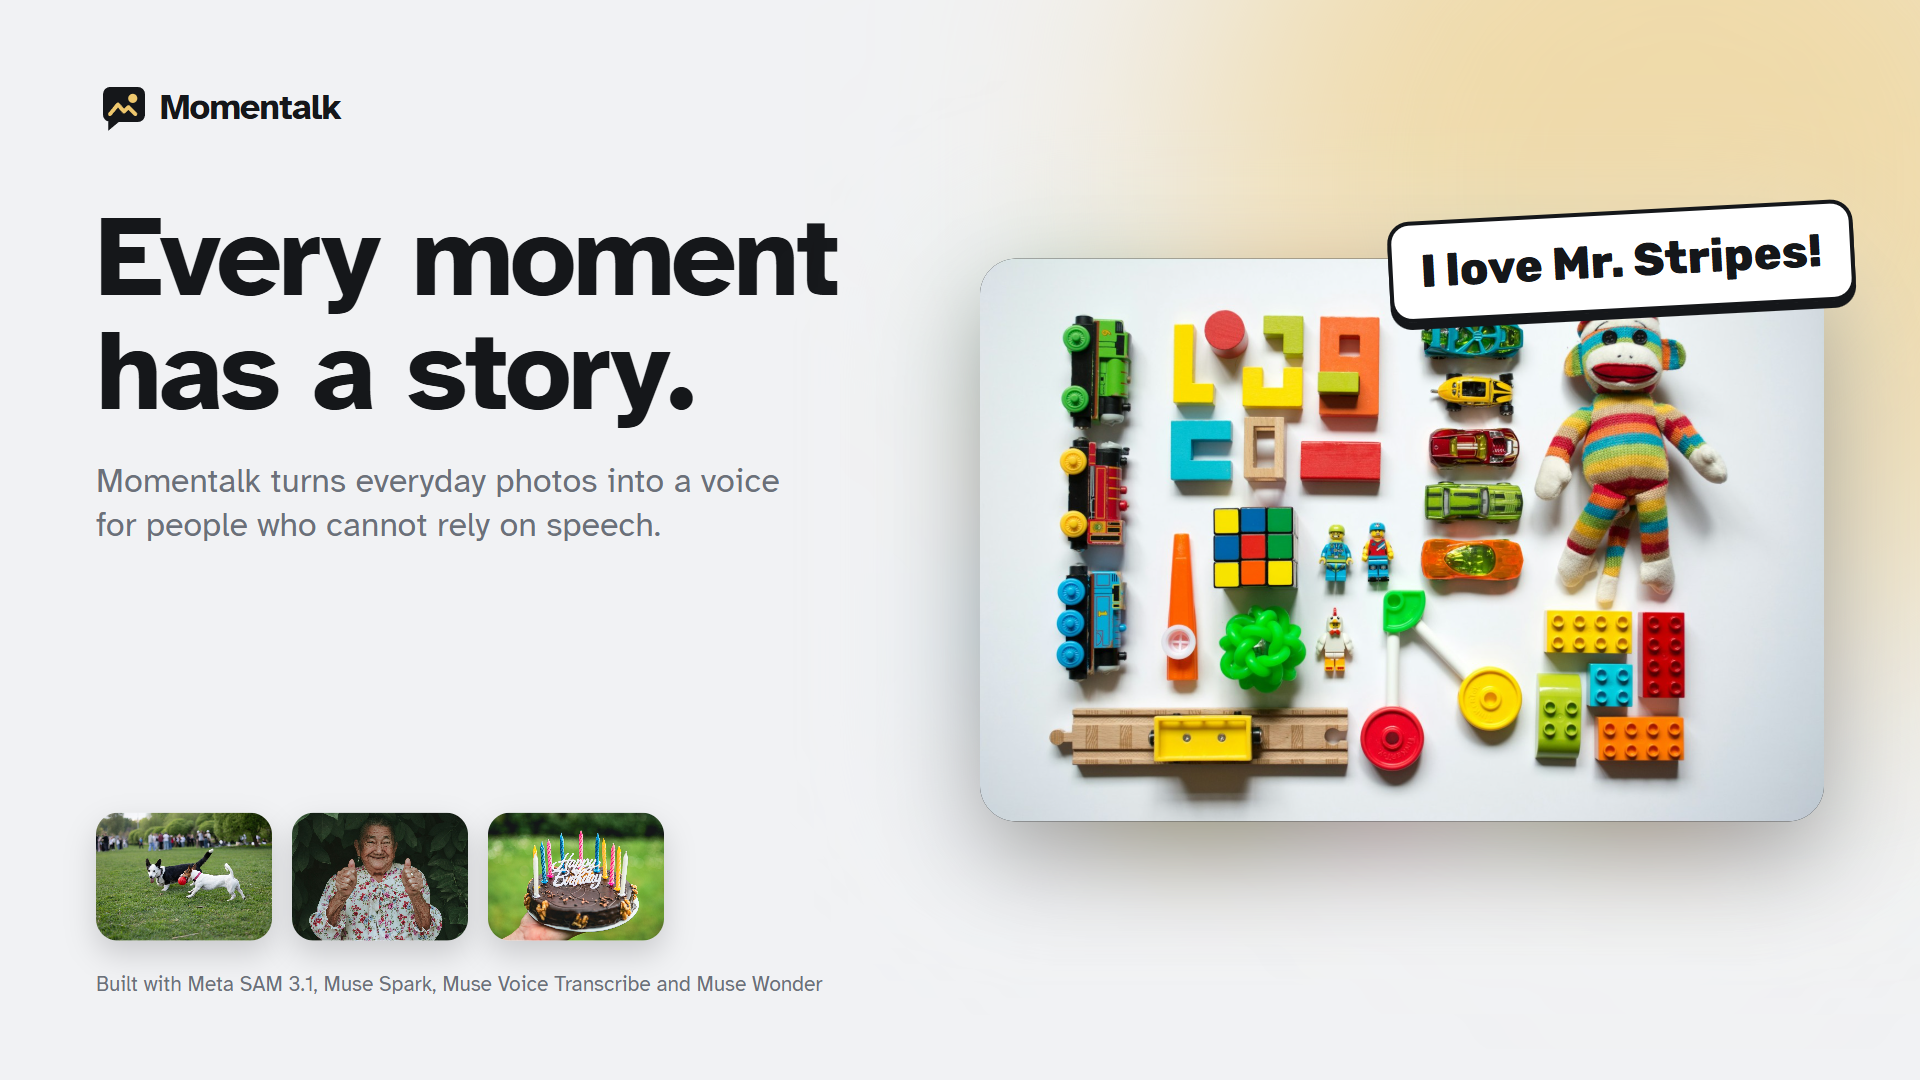
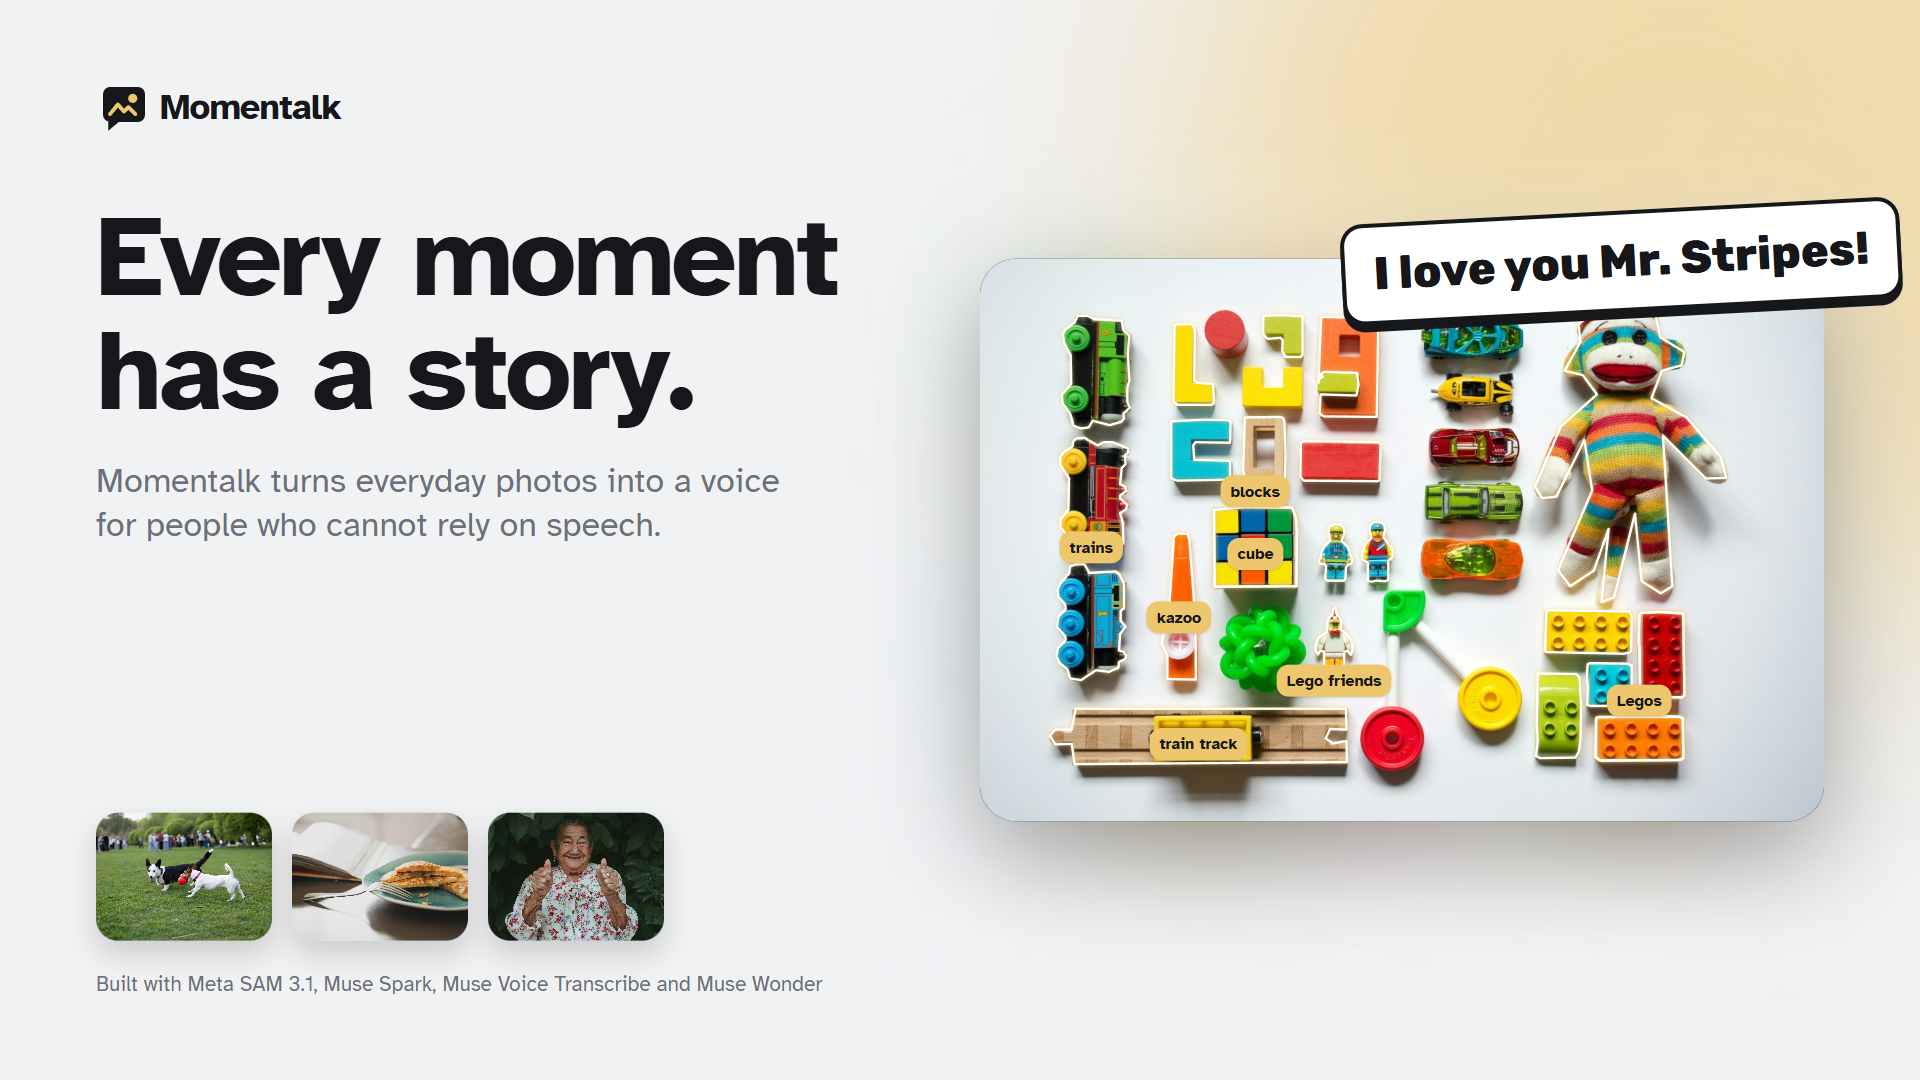
Poster renders with real SAM 3.1 outlines

diff --git a/frontend/src/pages/Poster.tsx b/frontend/src/pages/Poster.tsx
@@ -12,7 +12,7 @@ const CREDIT = 'Built with Meta SAM 3.1, Muse Spark, Muse Voice Transcribe and M
  * outlines shown are genuine SAM 3.1 output. Open /?poster=4x3 or /?poster=16x9.
  */
 export function Poster({ scenes, format }: { scenes: Scene[]; format: '4x3' | '16x9' }) {
-  const hero = scenes.find((s) => s.id === 's_demo_toys') ?? scenes[0]
+  const hero = scenes.find((s) => s.title === 'Toy box') ?? scenes[0]
   const others = scenes.filter((s) => s.id !== hero?.id).slice(0, 3)
   const color = useMomentColor(hero?.media_url)
   const wide = format === '16x9'
